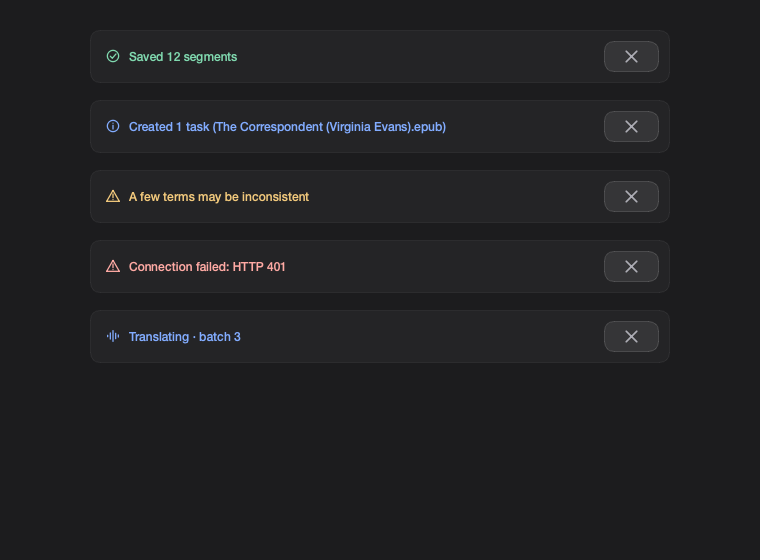
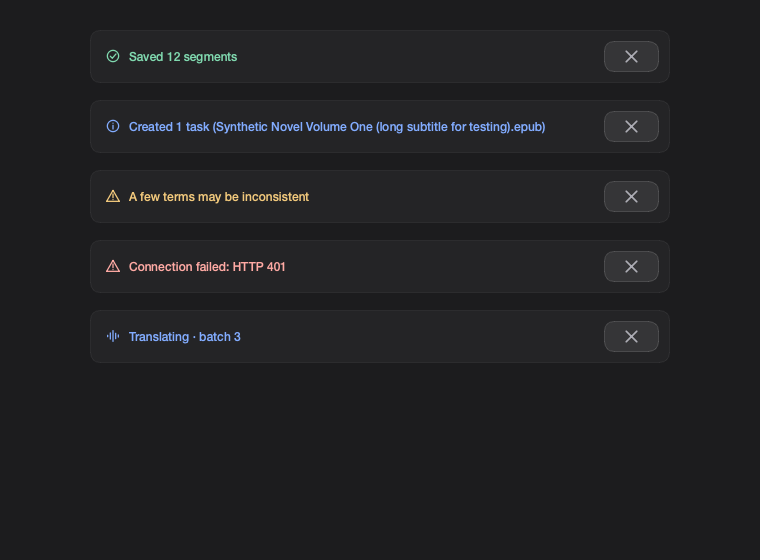
test(0.8.3): use synthetic document names in notice evidence (#520)

Changed region(s): [[0.2724, 0.2125, 0.7263, 0.2429]]

diff --git a/tests/qt_notice_design_test.py b/tests/qt_notice_design_test.py
@@ -74,7 +74,7 @@ def test_error_toast_is_sticky_even_after_hover(app):
 
 def test_long_filename_is_elided_in_the_middle_with_full_text_available(app):
     toast, parent = _toast(app)
-    name = "The Correspondent (Virginia Evans) (z-library.sk, 1lib.sk, z-lib.sk).epub"
+    name = "示例长篇小说·第一卷（含很长的副标题用于测试中间省略）.epub"
     try:
         toast.present(f"已创建 1 个新任务（{name}）")
         assert toast.label.text() != toast._message
@@ -115,7 +115,7 @@ def test_banner_elides_the_middle_and_exposes_an_action(app):
     holder = QWidget()
     banner = notifications.NoticeBanner(holder)
     banner.resize(520, 40)
-    name = "The Correspondent (Virginia Evans) (z-library.sk, 1lib.sk).epub"
+    name = "Synthetic Novel Volume One (with a very long subtitle to test elision).epub"
     clicked = []
     banner.set_notice(f"已创建 1 个新任务（{name}）", action="打开任务",
                       on_action=lambda: clicked.append(True))
